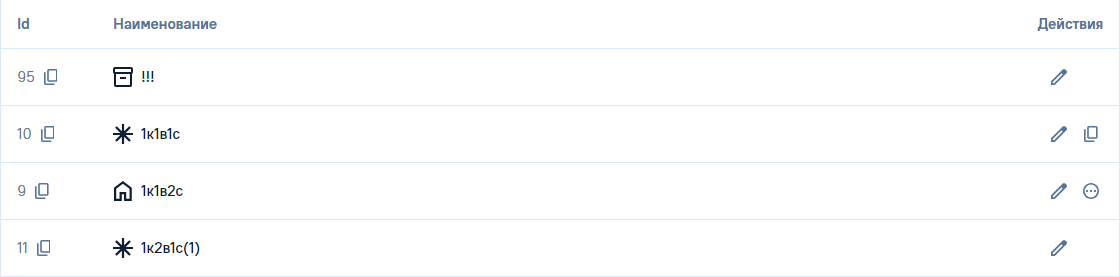
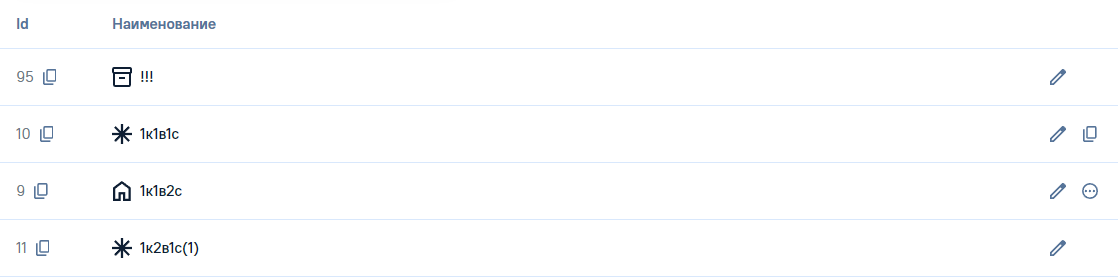
Такт 27: вторичный слот колонки действий — только при вторичных действиях
- TableRowActions: слот рендерится при вторичных действиях; reserveSecondary
  держит пустой резерв строки на странице, где вторичные есть
- table/index.ts: TABLE_ROW_ACTIONS_COLUMN_EDIT_ONLY = 168,
  tableRowActionsColumn(действия страницы) выбирает ступень
- /statuses, /insure-types — только карандаш у правого края (1391 = «Добавить»);
  ?actions=demo — со слотом, карандаш на 32 левее
- naming.md, page-insure-types.md, page-statuses.md, handoff.md,
  chat-protocol.md; кадры пересняты

diff --git a/app/pages/insure-types.vue b/app/pages/insure-types.vue
@@ -1,6 +1,6 @@
 <script setup lang="ts">
 import { computed, ref } from 'vue'
-import { TABLE_ROW_ACTIONS_COLUMN, type TableRowActionItem } from '@/components/ui/table'
+import { tableRowActionsColumn, type TableRowActionItem } from '@/components/ui/table'
 
 /**
  * Вторая тестовая страница — «Типы схем осмотров» (`insure-types`) текущей
@@ -110,19 +110,51 @@ const TYPES = [
 /**
  * Колонки. Макета нет: ширины — решение сборки, содержательная колонка резиновая.
  * Колонки «Иконка» нет с такта 20: эмблема живёт в «Наименовании» блоком
- * идентичности. Ширина «Действий» одна на всю админку — `TABLE_ROW_ACTIONS_COLUMN`
- * (такт 22): подпись, карандаш и всегда зарезервированный вторичный слот. Страница её
- * не пересчитывает.
+ * идентичности. Ширину «Действий» выбирает кит — `tableRowActionsColumn` по набору
+ * действий страницы (такт 27): в дефолте только карандаш, в демо — со вторичным слотом.
  *
  * Такт 23: у колонки действий заголовка нет — решение владельца. Текст прижимался к
  * правому краю и висел над зарезервированным вторичным слотом, левее которого стоит
  * карандаш. Колонка и её ширина остаются; название уходит в `aria-label`, чтобы у
  * заголовка колонки было имя для вспомогательных технологий.
  */
+const route = useRoute()
+
+/**
+ * Приёмочная оснастка `?actions=demo` — такт 20. В продукт не идёт.
+ *
+ * Канон — одно действие у всех строк: карандаш с подписью по наведению. Набор
+ * действий у всех строк страницы один (D6 такта 20), поэтому смешанные строки бывают
+ * только здесь. Такт 22: строка 1 — только карандаш, строка 2 — карандаш и копировать,
+ * строка 3 — карандаш и кебаб. Подпись по наведению — у всех трёх. Такт 27: на демо у
+ * страницы есть вторичные действия — колонка со слотом, у строки 1 слот пустой.
+ */
+const demoActions = route.query.actions === 'demo'
+
+const COPY: TableRowActionItem = { key: 'copy', label: 'Копировать', icon: 'copy' }
+const ARCHIVE: TableRowActionItem = { key: 'archive', label: 'Архивировать', icon: 'archive' }
+const EXPORT: TableRowActionItem = { key: 'export', label: 'Экспортировать', icon: 'download' }
+const REMOVE: TableRowActionItem = { key: 'delete', label: 'Удалить', icon: 'delete', destructive: true }
+
+/** Порядок в кебабе задаёт компонент, не страница, — поэтому в массиве он намеренно другой. */
+const DEMO_ROWS: TableRowActionItem[][] = [
+  [],
+  [COPY],
+  [REMOVE, EXPORT, ARCHIVE, COPY],
+]
+
+/** Набор вторичных действий страницы: в дефолте пустой. */
+const PAGE_ACTIONS = demoActions ? DEMO_ROWS.flat() : []
+const ACTIONS_COLUMN = tableRowActionsColumn(PAGE_ACTIONS)
+
+function actionsFor(index: number): TableRowActionItem[] {
+  return demoActions ? (DEMO_ROWS[index] ?? []) : []
+}
+
 const columns = [
   { key: 'id', title: 'Id', label: 'Id', width: 'w-24' },
   { key: 'name', title: 'Наименование', label: 'Наименование', width: 'flex-1' },
-  { key: 'actions', title: '', label: 'Действия', width: TABLE_ROW_ACTIONS_COLUMN },
+  { key: 'actions', title: '', label: 'Действия', width: ACTIONS_COLUMN },
 ] as const
 
 /**
@@ -156,35 +188,8 @@ function onSearch() {
  * Приёмочная оснастка, та же, что у «Мои осмотры»: `?rows=` задаёт размер
  * страницы, `?q=` — поисковый запрос для снимка. В продукт не идёт.
  */
-const route = useRoute()
 if (route.query.rows) pageSize.value = Number(route.query.rows)
 if (route.query.q) search.value = String(route.query.q)
-
-/**
- * Приёмочная оснастка `?actions=demo` — такт 20. В продукт не идёт.
- *
- * Канон — одно действие у всех строк: карандаш с подписью по наведению. Набор
- * действий у всех строк страницы один (D6 такта 20), поэтому смешанные строки бывают
- * только здесь. Такт 22: строка 1 — только карандаш, строка 2 — карандаш и копировать,
- * строка 3 — карандаш и кебаб. Подпись по наведению — у всех трёх.
- */
-const demoActions = route.query.actions === 'demo'
-
-const COPY: TableRowActionItem = { key: 'copy', label: 'Копировать', icon: 'copy' }
-const ARCHIVE: TableRowActionItem = { key: 'archive', label: 'Архивировать', icon: 'archive' }
-const EXPORT: TableRowActionItem = { key: 'export', label: 'Экспортировать', icon: 'download' }
-const REMOVE: TableRowActionItem = { key: 'delete', label: 'Удалить', icon: 'delete', destructive: true }
-
-/** Порядок в кебабе задаёт компонент, не страница, — поэтому в массиве он намеренно другой. */
-const DEMO_ROWS: TableRowActionItem[][] = [
-  [],
-  [COPY],
-  [REMOVE, EXPORT, ARCHIVE, COPY],
-]
-
-function actionsFor(index: number): TableRowActionItem[] {
-  return demoActions ? (DEMO_ROWS[index] ?? []) : []
-}
 </script>
 
 <template>
@@ -275,8 +280,8 @@ function actionsFor(index: number): TableRowActionItem[] {
         </TableCell>
 
         <!-- Колонка действий — компонент кита (такт 20, D): раскладку страница не повторяет. -->
-        <TableCell variant="slot" :size="56" class="justify-end px-4" :class="TABLE_ROW_ACTIONS_COLUMN">
-          <TableRowActions :actions="actionsFor(index)" />
+        <TableCell variant="slot" :size="56" class="justify-end px-4" :class="ACTIONS_COLUMN">
+          <TableRowActions :actions="actionsFor(index)" :reserve-secondary="PAGE_ACTIONS.length > 0" />
         </TableCell>
       </TableRow>
     </Table>

diff --git a/app/components/ui/table/TableRowActions.vue b/app/components/ui/table/TableRowActions.vue
@@ -23,14 +23,19 @@ import { TABLE_ROW_ACTION_ORDER, type TableRowActionItem } from '.'
  *
  * | Вторичных действий | Вторичный слот |
  * |---|---|
- * | нет | пустой, без объекта — но место занято |
+ * | нет на странице | слота нет: карандаш у правого края ячейки |
  * | одно, не удаление | иконка действия (`IconButton service`, глиф 16), тултип с названием |
  * | два и больше — или есть удаление | кебаб (глиф `pending`), тултипа нет; удаление — последней группой |
  *
- * **Вторичный слот резервируется всегда** — рекомендация чата, принято владельцем (такт
- * 22): тогда карандаш стоит на одной координате X во всей админке, а не только внутри
- * страницы. Ширина колонки поэтому одна на всю админку —
- * `TABLE_ROW_ACTIONS_COLUMN` в `table/index.ts`, страница её не пересчитывает.
+ * **Слот рендерится и резервируется только при вторичных действиях** — решение владельца,
+ * такт 27; резерв такта 22 снят. На странице без вторичных карандаш стоит у правого края
+ * ячейки, на одной вертикали с правым краем «Добавить». На странице со вторичными
+ * карандаш сдвинут на 32 левее и стоит на одной X у всех строк страницы. Ширину колонки
+ * выбирает `tableRowActionsColumn` в `table/index.ts` по набору действий страницы.
+ *
+ * Резерв по умолчанию следует за списком строки. `reserveSecondary` задаёт его по
+ * странице: у строки без вторичных на странице, где они есть, слот остаётся пустым —
+ * так карандаш не выбивается из общей X (оснастка `?actions=demo` смешивает наборы).
  *
  * > Такт 22 исправил порядок: в такте 21 вторичный слот стоял левее карандаша — ошибка
  * > передачи решения владельца.
@@ -47,13 +52,22 @@ const props = withDefaults(defineProps<{
   editLabel?: string
   /** Редактирование недоступно по правам. */
   editDisabled?: boolean
+  /**
+   * На странице есть вторичные действия: слот резервируется и у строки с пустым списком.
+   * Не задан — резерв следует за списком строки. Такт 27.
+   */
+  reserveSecondary?: boolean
 }>(), {
   actions: () => [],
   editLabel: 'Редактировать',
   editDisabled: false,
+  reserveSecondary: undefined,
 })
 
 const menuOpen = ref(false)
+
+/** Вторичный слот есть только при вторичных действиях — такт 27. */
+const reserve = computed(() => props.reserveSecondary ?? props.actions.length > 0)
 
 /** Одно вторичное действие, и это не удаление, — встаёт иконкой. */
 const single = computed(() => {
@@ -77,8 +91,8 @@ const menuDanger = computed(() => ordered.value.filter(a => a.destructive))
       {{ props.editLabel }}
     </TableRowAction>
 
-    <!-- Вторичный слот: 24×24, занят всегда — пустой, иконка или кебаб. -->
-    <span data-slot="table-row-actions-secondary" class="relative flex size-6 shrink-0">
+    <!-- Вторичный слот: 24×24 при вторичных действиях страницы — иконка, кебаб или пустой резерв. -->
+    <span v-if="reserve" data-slot="table-row-actions-secondary" class="relative flex size-6 shrink-0">
       <TooltipProvider v-if="single">
         <Tooltip>
           <TooltipTrigger as-child>

diff --git a/app/components/ui/table/index.ts b/app/components/ui/table/index.ts
@@ -212,16 +212,32 @@ export interface TableRowActionItem {
 export const TABLE_ROW_ACTION_ORDER = ['copy', 'archive', 'export', 'delete'] as const
 
 /**
- * Ширина колонки «Действия» — одна на всю админку. Решение владельца, такт 22:
- * вторичный слот резервируется всегда, поэтому карандаш стоит на одной координате X
- * на любой странице, а не только внутри одной.
+ * Ширина колонки «Действия» — две ступени по наличию вторичных действий на странице.
+ * Решение владельца, такт 27: резерв вторичного слота такта 22 снят. Внутри страницы
+ * карандаш стоит на одной X у всех строк; между страницами X различается на ширину
+ * слота — осознанная цена.
  *
- * Расчёт: подпись «Редактировать» 15/20 — 102.6, до слота карандаша 8 (12 до глифа),
- * слот карандаша 24, зазор 8, вторичный слот 24, паддинги ячейки 16 + 16 — итого
- * 198.6, до кратного 4 — **200**. Класс статичный: собранную строку Tailwind не увидит.
- * Страница ширину не пересчитывает.
+ * **Со вторичным слотом** — `TABLE_ROW_ACTIONS_COLUMN`. Расчёт: подпись «Редактировать»
+ * 15/20 — 102.6, до слота карандаша 8 (12 до глифа), слот карандаша 24, зазор 8,
+ * вторичный слот 24, паддинги ячейки 16 + 16 — итого 198.6, до кратного 4 — **200**.
+ *
+ * **Только карандаш** — `TABLE_ROW_ACTIONS_COLUMN_EDIT_ONLY`. Расчёт: подпись 102.6,
+ * до слота карандаша 8 (12 до глифа), слот карандаша 24, паддинги 16 + 16 — итого
+ * 166.6, до кратного 4 — **168**. Правый край карандаша стоит на паддинге 16 — на одной
+ * вертикали с правым краем «Добавить» в шапке.
+ *
+ * Классы статичные: собранную строку Tailwind не увидит.
  */
 export const TABLE_ROW_ACTIONS_COLUMN = 'w-50'
+export const TABLE_ROW_ACTIONS_COLUMN_EDIT_ONLY = 'w-42'
+
+/**
+ * Ширина колонки по набору действий страницы: есть вторичные — со слотом, нет — только
+ * карандаш. Страница передаёт набор, ступень выбирает кит.
+ */
+export function tableRowActionsColumn(actions: readonly TableRowActionItem[]) {
+  return actions.length ? TABLE_ROW_ACTIONS_COLUMN : TABLE_ROW_ACTIONS_COLUMN_EDIT_ONLY
+}
 
 export type TableRowVariants = VariantProps<typeof tableRowVariants>
 export type TableCellVariants = VariantProps<typeof tableCellVariants>

diff --git a/app/pages/statuses.vue b/app/pages/statuses.vue
@@ -1,6 +1,6 @@
 <script setup lang="ts">
 import { computed, ref } from 'vue'
-import { TABLE_ROW_ACTIONS_COLUMN } from '@/components/ui/table'
+import { tableRowActionsColumn } from '@/components/ui/table'
 
 /**
  * Стенд «Статусы» — список статусных моделей справочника, такты 24 и 26.
@@ -20,8 +20,8 @@ import { TABLE_ROW_ACTIONS_COLUMN } from '@/components/ui/table'
  * - **Эмблемы нет:** блок идентичности — только имя.
  * - **Многозначная ячейка «Компании»:** нейтральные метки инлайном с переносом, без потолка
  *   и «+N»; у компании со знаком — логотип 16×16.
- * - **Колонка действий — только карандаш** (такт 26): правый слот зарезервирован пустым,
- *   «Сделать копию» живёт в форме справочника.
+ * - **Колонка действий — только карандаш** (такт 26): «Сделать копию» живёт в форме
+ *   справочника. С такта 27 вторичного слота нет, карандаш у правого края ячейки.
  *
  * ## Что живое, а что заглушка
  *
@@ -93,11 +93,16 @@ const models = computed(() => {
   return MODELS.map(m => (m.name === 'Особый словарь' ? { ...m, companies: many } : m))
 })
 
-/** Колонки: Id нет, у колонки действий заголовка нет — канон, такты 23–24. */
+/**
+ * Колонки: Id нет, у колонки действий заголовка нет — канон, такты 23–24. Вторичных
+ * действий у страницы нет, поэтому колонка — только карандаш (такт 27).
+ */
+const ACTIONS_COLUMN = tableRowActionsColumn([])
+
 const columns = [
   { key: 'name', title: 'Наименование', label: 'Наименование', width: 'w-60' },
   { key: 'companies', title: 'Компании', label: 'Компании', width: 'flex-1 min-w-0' },
-  { key: 'actions', title: '', label: 'Действия', width: TABLE_ROW_ACTIONS_COLUMN },
+  { key: 'actions', title: '', label: 'Действия', width: ACTIONS_COLUMN },
 ] as const
 
 /**
@@ -213,8 +218,8 @@ if (route.query.q) search.value = String(route.query.q)
           </Chip>
         </TableCell>
 
-        <!-- Только карандаш: вторичный слот зарезервирован пустым — правило такта 22. -->
-        <TableCell variant="slot" :size="56" align="start" class="justify-end px-4" :class="TABLE_ROW_ACTIONS_COLUMN">
+        <!-- Только карандаш у правого края ячейки: вторичных действий нет — такт 27. -->
+        <TableCell variant="slot" :size="56" align="start" class="justify-end px-4" :class="ACTIONS_COLUMN">
           <TableRowActions />
         </TableCell>
       </TableRow>

diff --git a/docs/naming.md b/docs/naming.md
@@ -637,8 +637,8 @@ rososmotr своей поверхности под окно нет, и роль 
 | **Подпись по наведению на строку — при любом числе действий** | механика такта 20 без условий: слева от карандаша, `opacity` 0→1, место зарезервировано. У карандаша тултипа нет — у него подпись. Владелец, такт 22 |
 | **Зазор подпись↔карандаш — 12 до глифа** | глиф 16 стоит в слоте 24, поэтому в разметке `gap-2`: 8 до слота плюс 4 поля слота. Владелец, такт 20 (D4); перевод в разметку — решение агента |
 | **Вторичный слот 24×24 через 8 правее карандаша** | одно вторичное действие — его иконка (`IconButton service`, глиф 16) с тултипом; два и больше или есть удаление — кебаб (глиф `pending`) без тултипа. Владелец, такт 21, место — такт 22 |
-| **Вторичный слот резервируется всегда** | и на страницах без вторичных действий — пустой, без объекта. Карандаш тогда на одной X во всей админке, а не только внутри страницы. Рекомендация чата, принято владельцем, такт 22 |
-| **Ширина колонки одна на всю админку — `TABLE_ROW_ACTIONS_COLUMN`** | подпись 102.6 + 8 + 24 + 8 + 24 + паддинги 32 = 198.6 → **200**. Константа в `table/index.ts`, страница не пересчитывает. Владелец, такт 22 |
+| **Вторичный слот есть только на странице со вторичными действиями** | страница без вторичных: колонка — подпись и карандаш, карандаш у правого края ячейки, его правый край на одной вертикали с правым краем «Добавить» в шапке (оба на паддинге 16). Страница со вторичными: правее карандаша через 8 слот 24×24, карандаш сдвинут на 32 левее и стоит на одной X у всех строк страницы; у строки без вторичных на такой странице слот пустой (`reserveSecondary`). Между страницами X карандаша различается на ширину слота — осознанная цена. Владелец, такт 27; резерв такта 22 снят |
+| **Ширину колонки выбирает кит — `tableRowActionsColumn(действия страницы)`** | со слотом — `TABLE_ROW_ACTIONS_COLUMN`: подпись 102.6 + 8 + 24 + 8 + 24 + паддинги 32 = 198.6 → **200**. Только карандаш — `TABLE_ROW_ACTIONS_COLUMN_EDIT_ONLY`: 102.6 + 8 + 24 + 32 = 166.6 → **168**. Константы и функция в `table/index.ts`, страница передаёт набор и не считает. Владелец, такт 27 (ступень 200 — такт 22) |
 | **Удаление голой иконкой не встаёт** | уводит в кебаб все вторичные, даже если оно единственное. Владелец, такт 20 (D5), уточнено тактом 21 |
 | **Порядок в кебабе фиксирован** | копировать, архивировать, экспортировать; удалить — последней группой (`TABLE_ROW_ACTION_ORDER`). Владелец, такт 20 |
 | **Недоступное по правам действие стоит в слоте выключенным** | `opacity-disabled`, слот не схлопывается. Владелец, такт 20 (D3) |
@@ -748,9 +748,9 @@ rososmotr своей поверхности под окно нет, и роль 
 
 **D. Колонка «Действия»** — правила в разделе «Действие строки — `TableRowAction` и
 `TableRowActions`» выше. С такта 21 пороги «1–3 инлайном, 4+ кебаб» и очередь
-инлайн-слотов сняты; такт 22 исправил порядок: подпись → карандаш → вторичный слот, слот
-резервируется всегда, ширина колонки одна на всю админку (владелец; ошибка передачи решения в
-такте 21).
+инлайн-слотов сняты; такт 22 исправил порядок: подпись → карандаш → вторичный слот (владелец;
+ошибка передачи решения в такте 21). Такт 27 снял резерв слота такта 22: слот есть только на
+странице со вторичными действиями, ширину колонки выбирает `tableRowActionsColumn` (владелец).
 
 | Правило | Провенанс |
 |---|---|
@@ -851,7 +851,7 @@ rososmotr своей поверхности под окно нет, и роль 
 | **Выпадающая плашка светлая даже когда она — настоящий портал из тёмного меню** | правило порталов. Сверено с мастером: заливка `MenuPopOver` белая, тень та же, что у выпадашки списка. Уточнение такта 9 — правило про порталы, не про «всё, что всплывает»: см. раздел выше |
 | **Цвет по роли, а не по виду** | `success` — потому что операция завершилась, а не потому что нужен зелёный. Разбор — раздел «Роль против палитры» выше |
 | **Расширенная палитра — только по явному указанию** | «похоже по цвету» не основание: зелёная `palette-01` стоит рядом с `success`, и перепутать легко |
-| **Колонка действий строки — `TableRowActions` в `table/`** | слева направо: `TableRowAction` (подпись и карандаш, всегда) → вторичный слот 24×24 через 8, зарезервированный всегда — пустой, иконка действия или кебаб. Порядок кебаба — `TABLE_ROW_ACTION_ORDER`, ширина колонки — `TABLE_ROW_ACTIONS_COLUMN`, обе константы в `table/index.ts`. Такт 20, упрощён тактом 21, порядок исправлен тактом 22 |
+| **Колонка действий строки — `TableRowActions` в `table/`** | слева направо: `TableRowAction` (подпись и карандаш, всегда) → вторичный слот 24×24 через 8 — только на странице со вторичными действиями: иконка действия, кебаб или пустой резерв строки. Порядок кебаба — `TABLE_ROW_ACTION_ORDER`, ширина колонки — `tableRowActionsColumn` (ступени 200 и 168), всё в `table/index.ts`. Такт 20, упрощён тактом 21, порядок исправлен тактом 22, резерв снят тактом 27 |
 | **Многозначная ячейка — `TableCell variant="values"`** | перенос, зазор 8, высота растёт от минимума размера; `[contain:inline-size]` обязателен — контейнер таблицы на `min-w-max` иначе считает ячейку одной строкой и распухает вбок. Такт 24 |
 | **Метка значения — `Chip variant="neutral"`, знак — проп `image`** | подложка `muted`, наведения и роли нет, хвост всегда `none`; изображение 16×16 `object-contain` на корне пилюли, зазор 8. Слот `leading` — для иконки; наведение у `default` — только при `trailing` не `none` (ось `interactive` в `chipVariants`). Такты 24, 26 |
 | **Ячейка у первой линии многозначной — `TableCell align="start"`** | прижата к верху строки, высота размера сохраняется. Такт 26 |

diff --git a/docs/handoff.md b/docs/handoff.md
@@ -16,7 +16,7 @@
 **Перенос Атома закончен, все девять волн приняты. Этап 2 — обогащение — закрыт целиком.**
 Идёт **тест кита на живой странице**: разбор ниже, история этапов — дальше по документу.
 
-## Где мы сейчас: тест кита на живых страницах завершён, такты 1–24 и 26 закрыты
+## Где мы сейчас: тест кита на живых страницах завершён, такты 1–24, 26 и 27 закрыты
 
 Перенос и обогащение позади. **Тест кита на живых страницах закрыт.** Две страницы:
 
@@ -64,6 +64,7 @@
 | **23** — колонка действий без заголовка | Типы схем осмотров | решение владельца: у колонки действий заголовка нет — текст висел над зарезервированным вторичным слотом. Колонка и ширина 200 остались, `TableHead` пустой той же высоты, название в `aria-label`; референс Mobbin 4/5. В `design-debt.md` строка `Popover` актуализирована: контейнер без Reka, закрытие есть с такта 21, долг — фокус, ARIA, портал, края окна; закрывается тактом «доступность всплывающих» вместе с `Dialog` |
 | **24** — стенд «Статусы» | Статусы | третья страница: `/statuses` по канону типовой страницы-таблицы, источник — прод без макета. Без Id и без эмблемы — у статусной модели их нет (канон стал условным). Многозначная ячейка «Компании» закрыла вопрос 34 вариантом (а): `TableCell variant="values"` с метками `Chip trailing="none"` инлайном с переносом, логотипы-заглушки — глифы 16 на рампах палитры. Поиск по имени модели и по компаниям. Первое реальное вторичное действие — «Сделать копию». Правки кита: вариант `values` у `TableCell` (с `[contain:inline-size]` — без него таблица распухала вбок), слот `leading` и ось `interactive` у `Chip`, необязательная эмблема у `TableCellIdentity`. «Особый словарь» при 1440 — три линии меток, не две (две требуют ячейку от 796, остаётся 678): принято владельцем по замеру. Разбор — `page-statuses.md` |
 | **26** — правки «Статусов» после приёмки | Статусы | решения владельца. Колонка действий — только карандаш: «Сделать копию» живёт в форме справочника, правый слот зарезервирован пустым. Метка компании — `Chip variant="neutral"` (подложка `muted`, без наведения, `active`/`count`/`marker`/`trailing` погашены); мастера статичной метки нет — кандидат Атома `Badge` `913:8279` отклонён владельцем (плашка поверх медиа, 16/24, 10/13). Логотип — проп `image` 16×16 `object-contain`; демо-знаки двенадцати брендов с trace-logos.ru в `public/demo/logos/`, компании переименованы в эти бренды, глифы-заглушки и рампы сняты. Ячейки имени и действий у первой линии меток — ось `align="start"` у `TableCell` (положение держалось и до такта, теперь это правило): центры 28 при 40 метках в 9 линиях. Оснастка `?values=demo`. В `naming.md` — правило глифов `copy` / `file_copy`. Метка наследует курсор кликабельной строки — решение сборки. Поиск «касса» даёт 0 («Кассы» подстроку не содержит) — кадр на «касс». `/compare` 114 / 361 без провалов. Разбор — `page-statuses.md` |
+| **27** — вторичный слот только при вторичных действиях | обе | решение владельца: резерв правого слота такта 22 снят. `TableRowActions` рендерит слот только при вторичных действиях; `reserveSecondary` держит пустой резерв у строки без вторичных на странице, где они есть (решение сборки — для общей X в демо). Ширину выбирает `tableRowActionsColumn(действия страницы)`: 200 со слотом, `TABLE_ROW_ACTIONS_COLUMN_EDIT_ONLY` 168 без (102.6 + 8 + 24 + 32 = 166.6). Дефолт «Статусов» и «Типов схем»: правый край слота карандаша 1391 = правый край «Добавить», колонка 168 в покое и при наведении, подпись до глифа 12. Демо: карандаш 1335 у всех строк (на 32 левее), слот 24 через 8, «Копировать» и кебаб как в такте 22. `/compare` 114 / 361. Разбор — `page-insure-types.md`, `page-statuses.md` |
 
 ### Такт 20 закрыт: паттерн закреплён
 

diff --git a/docs/page-insure-types.md b/docs/page-insure-types.md
@@ -716,3 +716,39 @@ Protocol (`Input.dispatchMouseEvent`).
 зарезервированным вторичным слотом — карандаш стоит на 32 левее. Колонка и её ширина 200 остались,
 заголовок пустой той же высоты, название ушло в `aria-label` (решение агента). Референс Mobbin 4/5 —
 ссылки в разделе «Референсы Mobbin» выше.
+
+## Такт 27: вторичный слот только при вторичных действиях
+
+Решение владельца, 2026-09-15: резерв правого слота такта 22 (рекомендация чата) снят. Правила —
+`docs/naming.md`, раздел «Действие строки — `TableRowAction` и `TableRowActions`».
+
+| Дефолт, наведение на строку | Демо `?actions=demo` |
+|---|---|
+| ![Только карандаш у правого края](page-insure-types-action-hover.png) | ![Карандаш и вторичный слот](page-insure-types-actions-demo.png) |
+
+### Что изменилось
+
+| Что | Было (такт 22) | Стало | Провенанс |
+|---|---|---|---|
+| **вторичный слот** | резервировался всегда, пустой на странице без вторичных | рендерится только на странице со вторичными действиями; у строки без вторичных на такой странице — пустой резерв (`reserveSecondary`), чтобы карандаш держал общую X | решение владельца; `reserveSecondary` — решение сборки: демо смешивает наборы, а X внутри страницы одна |
+| **карандаш в дефолте** | X 1339, правее — пустые 32 | у правого края ячейки: правый край слота карандаша на одной вертикали с правым краем «Добавить», оба на паддинге 16 | решение владельца |
+| **ширина колонки** | `TABLE_ROW_ACTIONS_COLUMN` = 200 на всю админку | `tableRowActionsColumn(действия страницы)`: со слотом — 200; только карандаш — `TABLE_ROW_ACTIONS_COLUMN_EDIT_ONLY` = подпись 102.6 + 8 + 24 + паддинги 32 = 166.6, до кратного 4 — **168** | решение владельца; расчёт — замер агента |
+| **X между страницами** | одна во всей админке | различается на ширину слота 32 — осознанная цена | решение владельца |
+
+### Проверено после правок
+
+Курсор, клики, Esc и снимки — headless Chrome через DevTools Protocol, окно 1440.
+
+| Проверка | Результат |
+|---|---|
+| дефолт: правый край карандаша | слот карандаша 1391 = правый край «Добавить» 1391, дельта **0**; глиф — 1387 |
+| дефолт: колонка | 168 в покое и при наведении, заголовок 168; вторичных слотов нет; X слота карандаша 1367 у всех 25 строк |
+| дефолт: наведение | подпись «Редактировать» слева, `opacity` 0 → 1, до глифа **12** |
+| демо: карандаш | X **1335** у всех строк — на 32 левее дефолта; колонка 200 |
+| демо: слот | 24×24 через 8 правее карандаша у каждой строки; правый край слота = правый край «Добавить»; строка 1 — пустой резерв, строка 2 — «Копировать», строка 3 — кебаб |
+| демо: «Копировать» | по наведению тултип «Копировать» |
+| демо: кебаб | клик открывает «Копировать, Архивировать, Экспортировать», за линией — «Удалить»; плашка в пределах таблицы; закрывается по Esc и кликом мимо |
+| «Статусы» | тот же дефолт: слот карандаша 1391 = «Добавить» 1391, колонка 168, подпись до глифа 12 |
+| `/compare` | 114 иконок, 361 текстовый узел, провалов нет |
+| консоль и сервер | ошибок нет |
+| витрина и тема | не менялись |

diff --git a/docs/chat-protocol.md b/docs/chat-protocol.md
@@ -134,7 +134,7 @@
 
 ---
 
-## Состояние проекта (актуально на 2026-09-15, после тактов 19–24 и 26)
+## Состояние проекта (актуально на 2026-09-15, после тактов 19–24, 26 и 27)
 
 ### Проект
 
@@ -197,8 +197,8 @@
   ховеру строки → карандаш → **вторичный слот** 24×24 через 8. Одно
   вторичное — иконкой с тултипом; со второго вторичного или при
   удалении — кебаб (глиф `pending`), удаление последней группой. Слот
-  резервируется всегда; ширина `TABLE_ROW_ACTIONS_COLUMN` = **200 на
-  всю админку**, карандаш на одной X везде. Колонка **без заголовка**,
+  есть только на странице со вторичными действиями (такт 27), ширину
+  выбирает `tableRowActionsColumn`: 200 со слотом, 168 без. Колонка **без заголовка**,
   название в `aria-label` (такт 23). Такт 21 передал порядок слотов
   неверно — ошибка чата, исправлено тактом 22.
 - **`Popover`** закрывается кликом мимо и по Esc (`v-model:open`,
@@ -227,7 +227,7 @@
 Решения владельца, разбор — `docs/page-statuses.md`.
 
 - **Колонка действий — только карандаш.** «Сделать копию» живёт в форме
-  справочника; правый слот зарезервирован пустым. Глиф дублирования
+  справочника; с такта 27 правого слота нет. Глиф дублирования
   сущности на будущее — `file_copy`, `copy` — только буфер обмена
   (`naming.md`).
 - **Метка компании — `Chip variant="neutral"`**: подложка `muted`, без
@@ -239,6 +239,17 @@
 - **Имя и карандаш у первой линии меток** — `TableCell align="start"`;
   оснастка `?values=demo` (40 меток, 9 линий на 1440, центры 28).
 - «Особый словарь» на 1440 с брендами — две линии.
+
+### Такт 27 — вторичный слот только при вторичных действиях
+
+Решение владельца: резерв правого слота такта 22 снят.
+
+- Страница без вторичных: подпись и карандаш, правый край карандаша на
+  одной вертикали с правым краем «Добавить» (1391 = 1391), колонка 168.
+- Страница со вторичными: слот 24×24 через 8, карандаш на 32 левее,
+  одна X у всех строк страницы; колонка 200. Между страницами X
+  различается — осознанная цена.
+- Ширину выбирает кит: `tableRowActionsColumn(действия страницы)`.
 
 ### Второй конвейер
 
